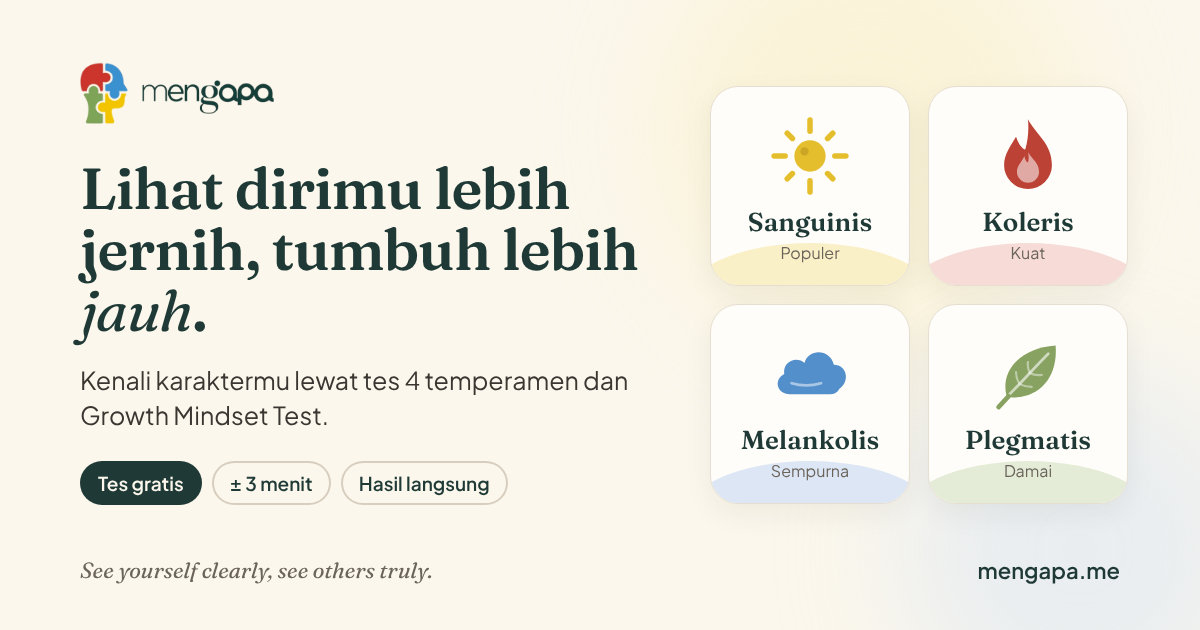
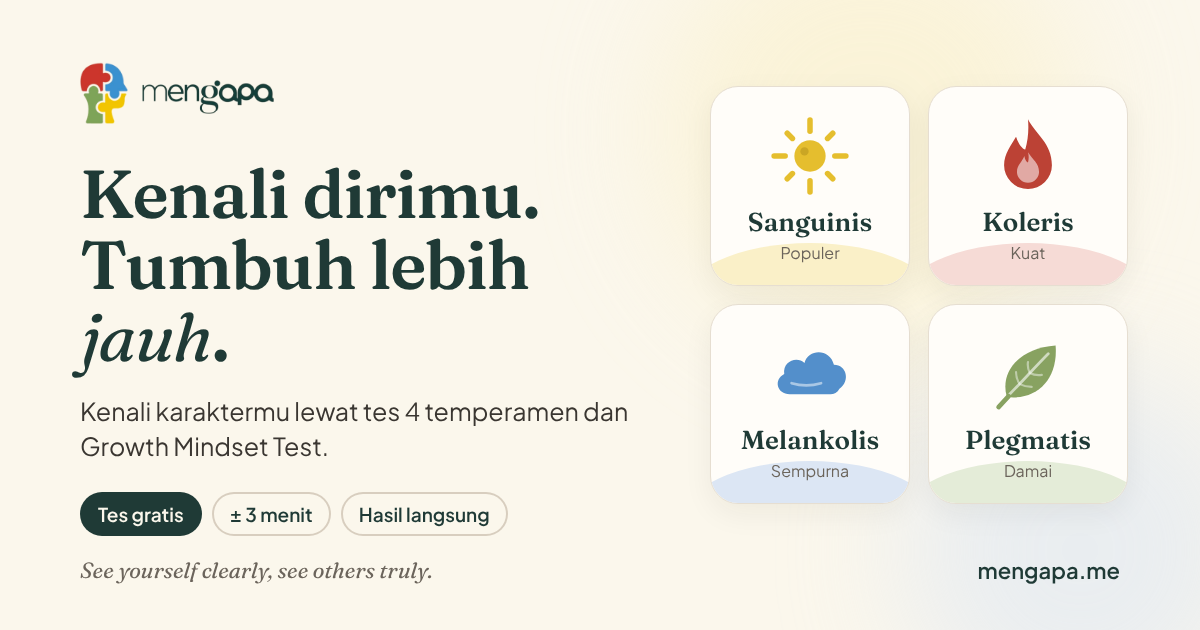
Headline: Kenali dirimu. Tumbuh lebih jauh.
Claude-Session: https://claude.ai/code/session_01Eb9LF9UwswxkZAqvSx1YYX

Changed region(s): [[0.0617, 0.2413, 0.555, 0.8746]]

diff --git a/index.html b/index.html
@@ -8,7 +8,7 @@
   <meta name="theme-color" content="#FBF7EC" />
   <meta property="og:type" content="website" />
   <meta property="og:title" content="Mengapa" />
-  <meta property="og:description" content="Lihat dirimu lebih jernih, tumbuh lebih jauh. Tes karakter 4 temperamen dan Growth Mindset Test dari Mengapa." />
+  <meta property="og:description" content="Kenali dirimu. Tumbuh lebih jauh. Tes karakter 4 temperamen dan Growth Mindset Test dari Mengapa." />
   <meta property="og:url" content="https://mengapa.me/" />
   <meta property="og:site_name" content="Mengapa" />
   <meta property="og:image" content="https://mengapa.me/og.png" />
@@ -1969,7 +1969,7 @@ function home() {
       <div class="top">${logo()}</div>
       <div class="hero">
         <div class="eyebrow">Tes karakter & pola pikir</div>
-        <h1>${L('Lihat dirimu lebih jernih, tumbuh lebih <em>jauh</em>.', 'See yourself more clearly, grow <em>further</em>.')}</h1>
+        <h1>${L('Kenali dirimu. Tumbuh lebih <em>jauh</em>.', 'Know yourself. <em>Grow</em> further.')}</h1>
         <p class="lead">Kenali karakter dan pola pikir yang paling sering kamu pakai, lalu belajar keluar dari jebakannya. Mulai dari tes gratis, atau langsung ke Tes Karakter Lengkap.</p>
       </div>
       ${inProgress ? `
